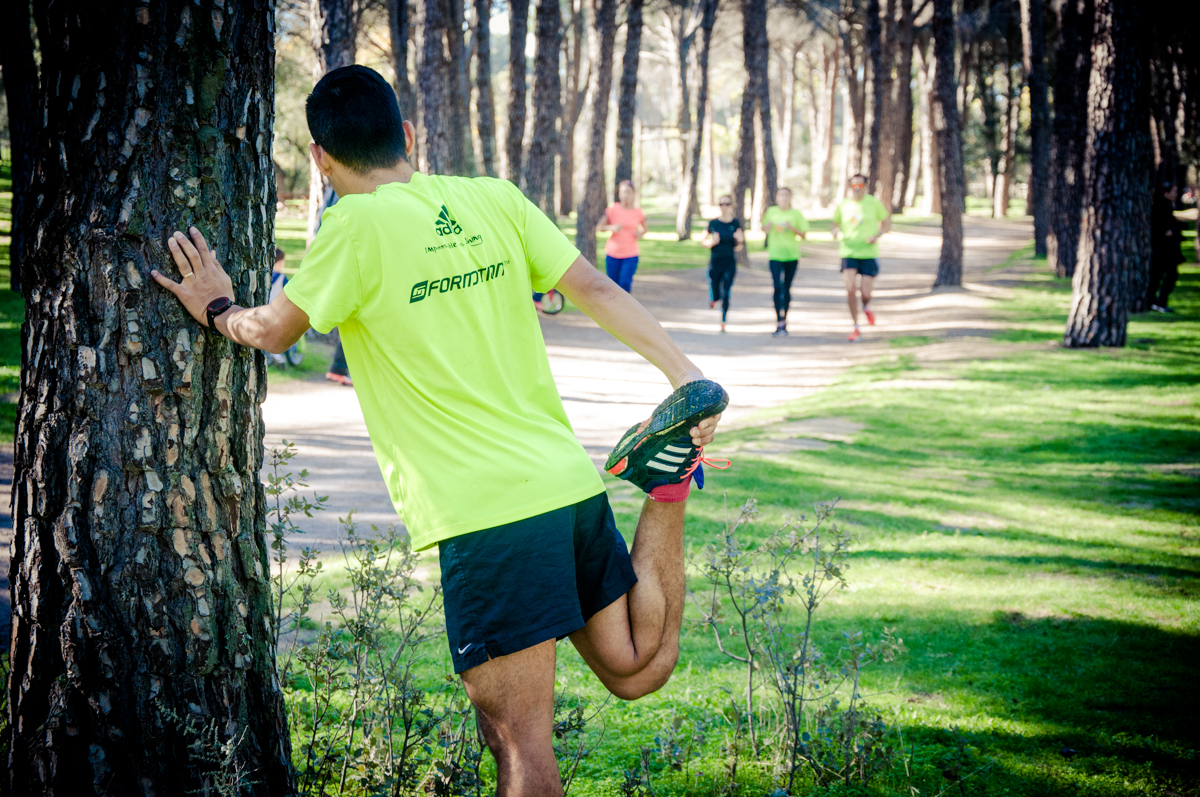
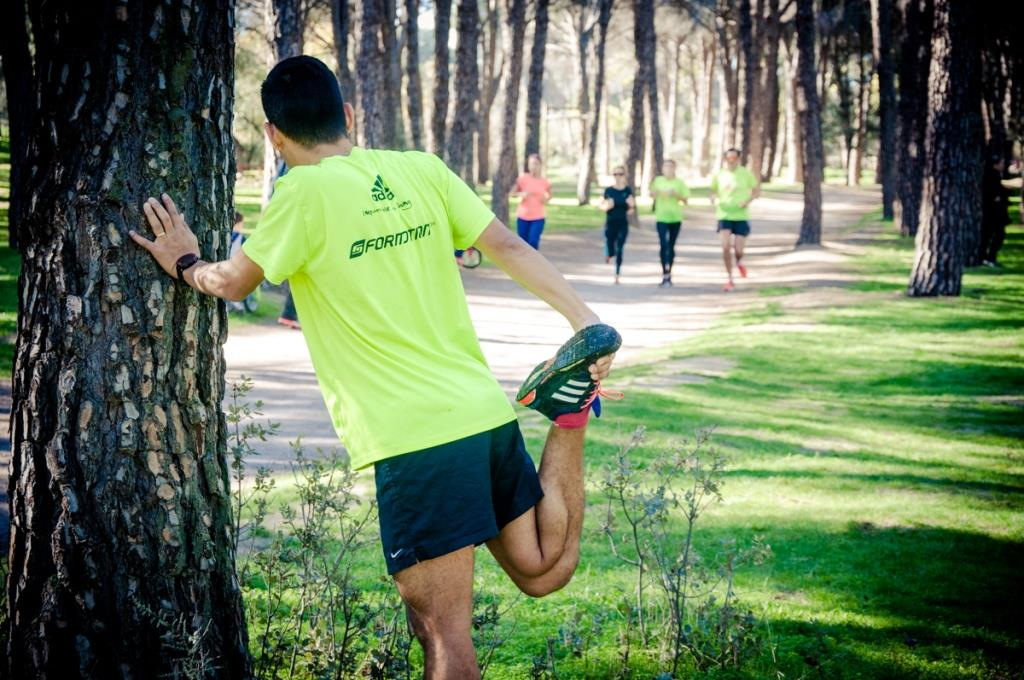
final commit

diff --git a/index.html b/index.html
@@ -121,7 +121,7 @@
       </div>
   </div>
   <div class="parallax-container">
-      <div class="parallax"><img src="3.png"></div>
+      <div class="parallax"><img src="3.jpg"></div>
   </div>
 
 
